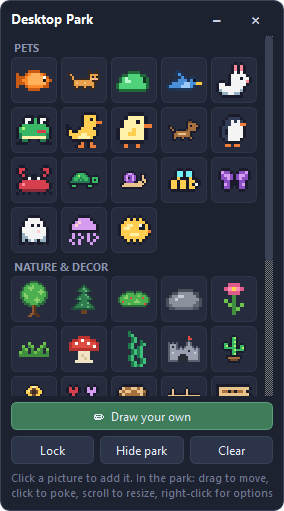
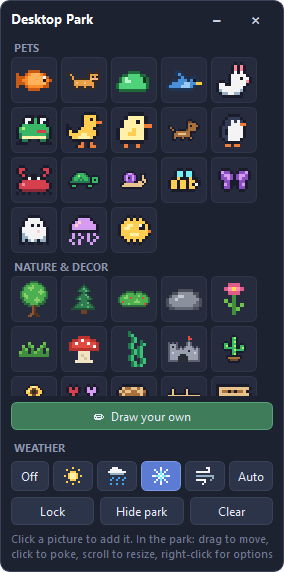
README: show off the weather (animated GIF, all four side by side, new board shot)

diff --git a/tools/weather_demo.py b/tools/weather_demo.py
@@ -1,0 +1,160 @@
+"""Render the README weather pictures, off-screen (nothing appears on your
+screen): docs/weather.gif (animated), docs/weather.png (all four at once)
+and docs/board.png. Needs Pillow.
+
+Run:  python tools/weather_demo.py
+"""
+
+import io
+import os
+import random
+import sys
+import tempfile
+from pathlib import Path
+
+ROOT = Path(__file__).resolve().parent.parent
+sys.path.insert(0, str(ROOT))
+os.chdir(ROOT)
+
+import store  # noqa: E402
+
+_tmp = tempfile.mkdtemp()
+store.park_file = lambda: os.path.join(_tmp, "park.json")   # never touch your real park
+
+from PIL import Image, ImageDraw, ImageFont  # noqa: E402
+from PySide6.QtCore import QBuffer, QIODevice  # noqa: E402
+from PySide6.QtGui import QColor, QImage, QPainter  # noqa: E402
+from PySide6.QtWidgets import QApplication, QSystemTrayIcon  # noqa: E402
+
+import board as boardmod  # noqa: E402
+import park as parkmod  # noqa: E402
+import updates  # noqa: E402
+import weather_window as wwmod  # noqa: E402
+
+W, H = 1000, 340
+FPS = 14
+BG = "#1e2436"
+CLIPS = (("sun", "Sunny", 6, 2.6), ("rain", "Rain", 3, 2.6),
+         ("snow", "Snow", 140, 3.0), ("wind", "Windy", 6, 2.6))   # kind, label, warm-up s, length s
+
+SCENE = [("cherry", 30, 4), ("cottage", 120, 4), ("fence", 205, 3), ("lamp", 290, 3),
+         ("tree", 380, 4), ("bush", 445, 3), ("campfire", 520, 3), ("stump", 590, 3),
+         ("tulips", 655, 3), ("pond", 715, 3), ("pine", 800, 4), ("crystal", 860, 3),
+         ("palm", 920, 4)]
+PETS = [("cat", 330, 3, "walk"), ("bunny", 560, 3, "hop"), ("duck", 760, 3, "walk"),
+        ("frog", 470, 3, "hop"), ("butterfly", 250, 3, "fly"), ("bee", 700, 3, "fly"),
+        ("fish", 120, 3, "swim"), ("jelly", 880, 3, "swim")]
+
+
+def off_screen(self, screen):
+    self.setGeometry(-9000, -9000, W, H)
+    if hasattr(self, "world"):
+        self.world.resize(W, H)
+    else:
+        self.weather.resize(W, H)
+
+
+def to_pil(qimg):
+    buf = QBuffer()
+    buf.open(QIODevice.WriteOnly)
+    qimg.save(buf, "PNG")
+    return Image.open(io.BytesIO(bytes(buf.data()))).convert("RGB")
+
+
+def label(img, text):
+    """A small rounded tag in the corner saying which weather this is."""
+    d = ImageDraw.Draw(img)
+    font = ImageFont.load_default(size=18)
+    w = d.textlength(text, font=font)
+    d.rounded_rectangle([14, 14, 14 + w + 22, 44], radius=8, fill="#2c3449", outline="#5b7bd5", width=2)
+    d.text((25, 18), text, fill="#ffffff", font=font)
+    return img
+
+
+def main():
+    parkmod.ParkWindow.fit_screen = off_screen
+    wwmod.WeatherWindow.fit_screen = off_screen
+    boardmod.Board.place = lambda self, x, y, r: self.move(-9000, -8000)
+    QSystemTrayIcon.show = lambda self: None
+    updates.latest_release = lambda timeout=10: None
+    import desktop_park
+
+    qapp = QApplication(sys.argv)
+    app = desktop_park.App(qapp)
+    pk, ww = app.park, app.weather
+    pk.timer.stop()
+    ww.timer.stop()
+    rng = random.Random(11)
+
+    def build_scene():
+        pk.world.things = []
+        pk.world.particles = []
+        ground = pk.world.ground
+        for art_id, x, s in SCENE:
+            t = pk.make_thing(art_id, scale=s)
+            t.x, t.y = x, ground - t.h
+            pk.world.things.append(t)
+        for art_id, x, s, b in PETS:
+            t = pk.make_thing(art_id, scale=s, behavior=b)
+            t.x = x
+            t.y = {"fly": 70, "swim": 120}.get(b, ground - t.h)
+            pk.world.things.append(t)
+
+    def frame():
+        img = QImage(W, H, QImage.Format_ARGB32)
+        img.fill(QColor(BG))
+        p = QPainter(img)
+        p.drawPixmap(0, 0, ww.grab())
+        p.drawPixmap(0, 0, pk.grab())
+        p.end()
+        return to_pil(img)
+
+    frames, stills = [], []
+    dt = 1.0 / FPS
+    for kind, text, warm, length in CLIPS:
+        build_scene()
+        w = ww.weather
+        w.particles, w.snow = [], [0.0] * len(w.snow)
+        w.wind, w.sun = 0.0, 0.0
+        w.set_kind(kind)
+        for _ in range(int(warm / dt)):
+            w.step(dt, rng)
+        for i in range(int(length * FPS)):
+            w.step(dt, rng)
+            pk.world.wind = w.gust()
+            pk.world.step(dt, rng)
+            img = frame()
+            frames.append(label(img.copy(), text))
+            if i == int(length * FPS * 0.6):
+                stills.append(img)
+
+    docs = ROOT / "docs"
+    # one shared palette for every frame keeps the GIF small and steady
+    # palette from a frame of every clip, so the sun keeps its warm colours
+    sample = Image.new("RGB", (W, H * len(stills)))
+    for i, s in enumerate(stills):
+        sample.paste(s, (0, i * H))
+    pal = sample.quantize(colors=160, method=Image.Quantize.MEDIANCUT)
+    gif = [f.quantize(palette=pal, dither=Image.Dither.NONE) for f in frames]
+    gif[0].save(docs / "weather.gif", save_all=True, append_images=gif[1:],
+                duration=int(1000 / FPS), loop=0, optimize=True, disposal=1)
+
+    # full-size crops (shrinking pixel art ruins it): the best part of each
+    cw = W // 2
+    crops = [(0, 0), (250, 0), (500, 0), (250, 0)]
+    tiles = [label(s.crop((x, y, x + cw, y + H)), text)
+             for s, (x, y), (_, text, _, _) in zip(stills, crops, CLIPS)]
+    grid = Image.new("RGB", (cw * 2 + 6, H * 2 + 6), "#11141c")
+    for i, t in enumerate(tiles):
+        grid.paste(t, ((i % 2) * (cw + 6), (i // 2) * (H + 6)))
+    grid.save(docs / "weather.png")
+
+    ww.weather.set_kind("snow")
+    app.board.set_weather("snow")
+    app.board.grab().save(str(docs / "board.png"))
+    for name in ("weather.gif", "weather.png", "board.png"):
+        print(name, os.path.getsize(docs / name) // 1024, "KB")
+
+
+if __name__ == "__main__":
+    main()

diff --git a/README.md b/README.md
@@ -17,6 +17,26 @@ your own, and lock or hide the park.
 - **Weather:** sun rays, rain, snow that piles up, or wind that blows leaves
   (and your flying pets) around - or let it change by itself
 
+## Weather
+
+![The park cycling through sunny light rays, rain, snow piling up along the ground, and wind blowing leaves](docs/weather.gif)
+
+Your desktop gets its own sky. Pick the weather on the board, or press
+**Auto** and let it change by itself every few minutes.
+
+- **Sunny** - warm light rays from the corner of the screen and drifting sparkles
+- **Rain** - pixel raindrops, slanted by the breeze, that splash when they land
+- **Snow** - flakes drift down and **pile up along the bottom of your screen**,
+  then melt away when the snow stops
+- **Windy** - leaves and gusts blow across, and your flying and swimming pets
+  get pushed around
+
+![Sunny, Rain, Snow and Windy side by side](docs/weather.png)
+
+The weather never gets in your way: it lives in its own window that every
+click passes straight through, and it barely uses the CPU (well under 1%
+while it rains).
+
 ## Download
 
 **[Download the latest Windows release](https://github.com/sirawitbm/destop-park/releases/latest)**
@@ -102,6 +122,7 @@ exe for the portable zip, `%LOCALAPPDATA%\DesktopPark` for the installed app.
 | `weather.py` | Rain, snow, wind and sun (pure logic, unit tested) |
 | `weather_window.py` | Draws the weather in its own click-through window |
 | `updates.py` | Asks GitHub whether a newer version is out |
+| `tools/weather_demo.py` | Renders the README's weather pictures off-screen |
 | `board.py` | The floating control board |
 | `editor.py` | The pixel editor |
 | `art.py`, `art_pack.py` | The built-in pixel art, written as rows of letters |
